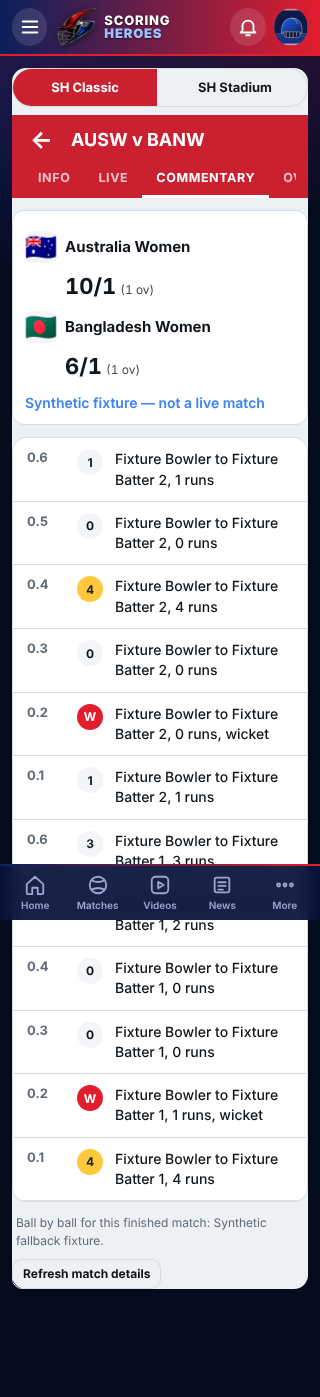
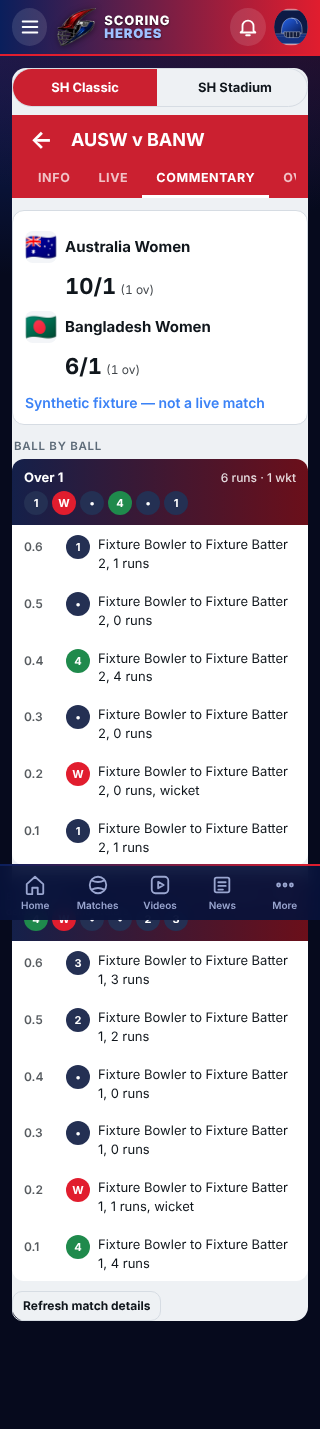
CREX-style commentary: over cards with ball chips (dot, 4, 6, W, Wd, Nb), This over strip on Live; works for every match with delivery records; test
Claude-Session: https://claude.ai/code/session_01HkCoKwManx1f4X4815YDSv

diff --git a/app-index.html b/app-index.html
@@ -4837,6 +4837,7 @@ function shWorldPartnerships(W){const L=W.sc?.scorecard||[];let out='';for(const
 { // open-data credit: ball by ball, fall of wickets and partnerships filled for a finished match; live tracker records and notes
  const cr=bb=>{const src=bb&&bb.source;if(!src)return '';return `<div class="mu sm" style="padding:0 4px 10px">${bb.tracked?'Ball records: '+esc(src)+'. A ball is written only when the scorecard changed by exactly one delivery between two checks (about every 30 seconds while someone has the match open). When several balls happen between checks, only a note is kept, never a guessed ball.':'Ball by ball for this finished match: '+esc(src)+'.'}</div>`};
  const notes=bb=>{const L=bb&&Array.isArray(bb.notes)?bb.notes.slice().reverse():[];if(!L.length)return '';return `<div class="cbp-lb">Updates between checks</div><div class="cbp-cd">${L.slice(0,60).map(x=>`<div class="cm-i" style="align-items:flex-start"><span class="cm-o" style="flex:0 0 58px;font-size:10px">${esc(new Date(x.at).toLocaleTimeString([],{hour:'2-digit',minute:'2-digit'}))}</span><span>${esc(x.text)}</span></div>`).join('')}</div>`};
+ var shNotesFn=notes,shCrFn=cr;
  const c0=cbpBbb;cbpBbb=function(W){const bb=W.bb;if(bb&&bb.tracked){const rows=shAvailableBalls(W);return (rows.length?c0(W):'')+notes(bb)+cr(bb)}return c0(W)+cr(bb)};
  const o0=cbpOverTab;cbpOverTab=cbpOvers=function(W){return o0(W)+cr(W.bb)};
  const g0=cbpGraphs;cbpGraphs=function(W){const has=(W.sc&&W.sc.scorecard||[]).some(i=>Array.isArray(i.fow));return (has&&typeof cbpPartGraph==='function'?cbpPartGraph(W):'')+g0(W)};
@@ -5104,6 +5105,19 @@ UI.sportLink=new URLSearchParams(location.search).get('sportmatch')||'';
  }
 }
 
+
+/* SH CREX-STYLE COMMENTARY: over cards (newest first) with ball chips, then one line per ball. Facts only; text comes from provider or our engine. */
+var shChip=function(x){var t=String(x.txt||''),r=x.run;return r==='W'?{c:'W',k:'w'}:/\bwide\b/i.test(t)?{c:'Wd',k:'x'}:/no.?ball/i.test(t)?{c:'Nb',k:'x'}:(+r===4?{c:'4',k:'f'}:+r===6?{c:'6',k:'s'}:{c:(r===''||+r===0)?'•':String(r),k:''})};
+var shOverGroups=function(W){var L=cbpBbbList(W.bb),g=[],ix={};L.forEach(function(x){var k=(x.inning==null?'':x.inning)+'|'+(x.o==null?String(x.ov).split('.')[0]:x.o);if(!(k in ix)){ix[k]=g.length;g.push({k:k,inn:x.inning,team:x.team,o:+(x.o==null?String(x.ov).split('.')[0]:x.o),b:[]})}g[ix[k]].b.push(x)});return g};
+var shChips=function(b){return '<span class="shc-row">'+b.slice().reverse().map(function(x){var c=shChip(x);return '<i class="shc '+c.k+'">'+c.c+'</i>'}).join('')+'</span>'};
+var shCrexComm=function(W){var G=shOverGroups(W);if(!G.length)return '';
+ return G.slice(0,40).map(function(g){var runs=g.b.reduce(function(n,x){return n+(+x.r||0)},0),w=g.b.filter(function(x){return x.run==='W'}).length;
+  return '<div class="shc-ov"><div class="shc-h"><b>'+(g.team?esc(shShort?g.team:g.team)+' · ':'')+'Over '+(g.o+1)+'</b><span>'+runs+' run'+(runs===1?'':'s')+(w?' · '+w+' wkt':'')+'</span>'+shChips(g.b)+'</div>'+
+  g.b.map(function(x){var c=shChip(x);return '<div class="shc-b"><span class="shc-n">'+esc(x.ov)+'</span><i class="shc '+c.k+'">'+c.c+'</i><span class="shc-t">'+esc(x.txt)+'</span></div>'}).join('')+'</div>'}).join('')};
+{var st=document.createElement('style');st.textContent='.shc{display:inline-flex;align-items:center;justify-content:center;min-width:24px;height:24px;border-radius:12px;background:#243053;color:#fff;font:700 11px var(--ui);font-style:normal;padding:0 5px;flex:none}.shc.f{background:#1f8a4c}.shc.s{background:#7b3fe4}.shc.w{background:#e11d2e}.shc.x{background:#b9770e}.shc-row{display:flex;gap:4px;flex-wrap:wrap;width:100%}.shc-ov{background:var(--card,#141c33);border-radius:12px;margin:0 0 10px;overflow:hidden}.shc-h{display:flex;flex-wrap:wrap;gap:6px 10px;align-items:center;padding:10px 12px;background:linear-gradient(90deg,#14204a,#6b0f1a);color:#fff}.shc-h b{font:700 13px var(--ui)}.shc-h span:nth-child(2){font:500 12px var(--ui);opacity:.85;margin-left:auto}.shc-b{display:flex;gap:8px;align-items:flex-start;padding:9px 12px;border-top:1px solid rgba(255,255,255,.07)}.shc-n{width:34px;flex:none;font:600 12px var(--ui);opacity:.7;padding-top:4px}.shc-t{min-width:0;flex:1;font:400 13px/1.45 var(--ui);overflow-wrap:anywhere}';document.head.appendChild(st)}
+{var cc0=cbpBbb;cbpBbb=function(W){var rows=shAvailableBalls(W);if(rows.length){var h=shCrexComm(W);if(h)return '<div class="cbp-lb">Ball by ball</div>'+h+(W.bb&&W.bb.tracked&&typeof shNotesFn==='function'?shNotesFn(W.bb)+shCrFn(W.bb):'')}return cc0(W)}}
+{var cr0=cbpCrease;cbpCrease=function(W){var o=cr0(W);try{var rows=shAvailableBalls(W);if(!rows.length)return o;var G=shOverGroups(W);if(!G.length)return o;var g=G[0];return o+'<div class="cbp-lb">This over · '+(g.o+1)+'</div><div class="cbp-cd" style="padding:10px 12px">'+shChips(g.b)+'</div>'}catch(e){return o}}}
+/* END SH CREX-STYLE COMMENTARY */
 </script>
 </body>
 </html>
